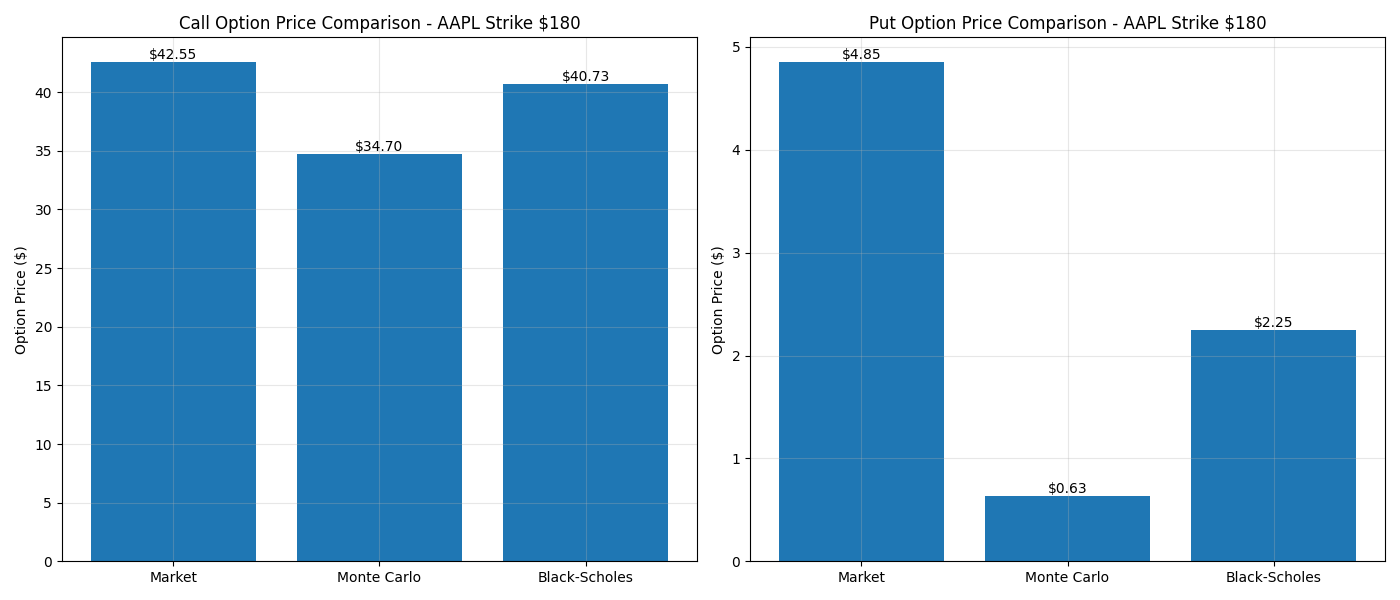
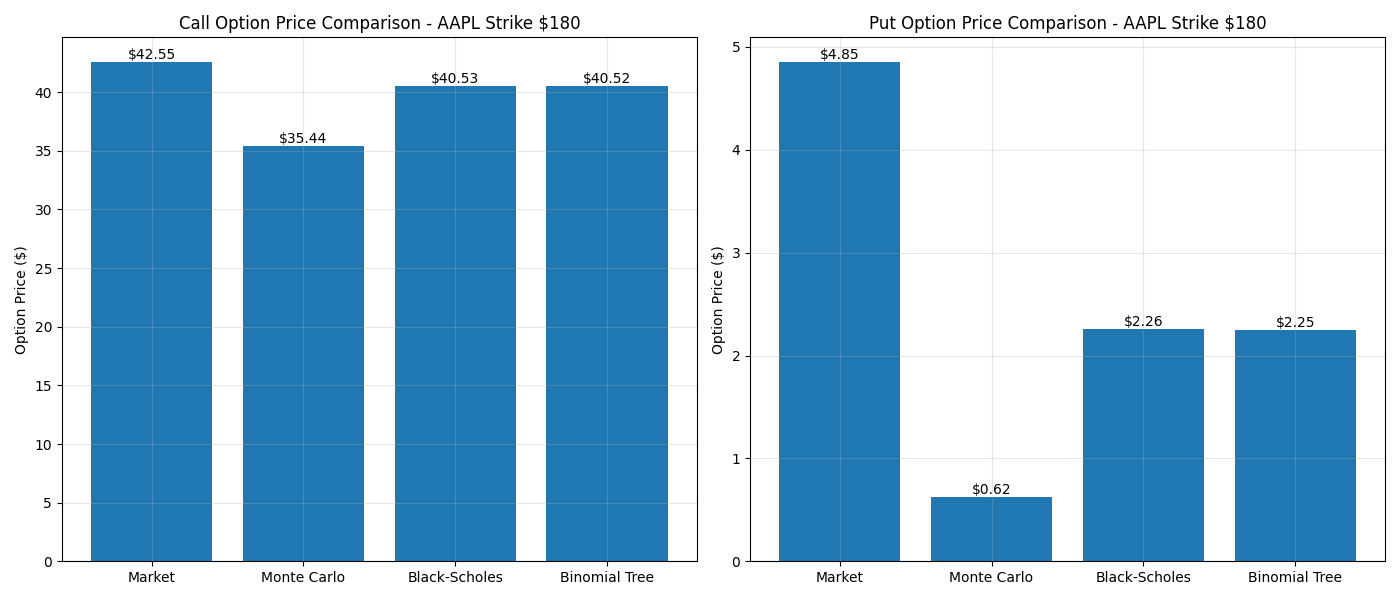
Ajout commentaire

diff --git a/services/option_pricer.py b/services/option_pricer.py
@@ -3,37 +3,43 @@ from models.monte_carlo_pricer import MonteCarloPricer
 from models.black_scholes_pricer import BlackScholesPricer
 from data.market_data import MarketData
 from models.greek_calculator import GreekCalculator
+from models.binomial_tree_pricer import BinomialTreePricer
 
 class OptionPricer:
-    def __init__(self, option, stock_data, num_simulations=10000):
+    def __init__(self, option, stock_data, num_simulations=10000, num_steps=100):
         """
         Initialise le pricer d'options.
 
         :param option: L'option à pricer (classe Option).
         :param stock_data: Les données de l'actif sous-jacent (classe StockData).
         :param num_simulations: Nombre de simulations pour la méthode Monte Carlo (par défaut 10 000).
+        :param num_steps: Nombre de pas de temps pour l'arbre binomial (par défaut 100).
         """
         self.option = option
         self.stock_data = stock_data
         self.num_simulations = num_simulations
+        self.num_steps = num_steps
         self.monte_carlo_pricer = MonteCarloPricer(option, stock_data, num_simulations)
         self.black_scholes_pricer = BlackScholesPricer(option, stock_data)
+        self.binomial_tree_pricer = BinomialTreePricer(option, stock_data, num_steps)  # Ajoutez cette ligne
         self.market_data = MarketData(option)
         self.greek_calculator = GreekCalculator(option, stock_data)
 
     def compare_prices(self):
         """
-        Compare les prix des options (call et put) calculés par Monte Carlo, Black-Scholes et le marché.
+        Compare les prix des options (call et put) calculés par Monte Carlo, Black-Scholes, l'arbre binomial et le marché.
         Affiche également les grecques.
         """
         # Calcul des prix pour les calls
         mc_call_price = self.monte_carlo_pricer.price_call()
         bs_call_price = self.black_scholes_pricer.price_call()
+        bt_call_price = self.binomial_tree_pricer.price_call()  # Ajoutez cette ligne
         market_call_price = self.market_data.get_market_price(call=True)
 
         # Calcul des prix pour les puts
         mc_put_price = self.monte_carlo_pricer.price_put()
         bs_put_price = self.black_scholes_pricer.price_put()
+        bt_put_price = self.binomial_tree_pricer.price_put()  # Ajoutez cette ligne
         market_put_price = self.market_data.get_market_price(call=False)
 
         # Calcul des grecques
@@ -53,6 +59,7 @@ class OptionPricer:
             print(f"{'Market':<15} ${market_call_price:>9.2f}")
         print(f"{'Monte Carlo':<20} {mc_call_price:>9.2f} $")
         print(f"{'Black-Scholes':<20} {bs_call_price:>9.2f} $")
+        print(f"{'Binomial Tree':<20} {bt_call_price:>9.2f} $")  # Ajoutez cette ligne
 
         # Résultats pour les puts
         print(f"\nPricing Results for Puts:")
@@ -62,6 +69,7 @@ class OptionPricer:
             print(f"{'Market':<15} ${market_put_price:>9.2f}")
         print(f"{'Monte Carlo':<20} {mc_put_price:>9.2f} $")
         print(f"{'Black-Scholes':<20} {bs_put_price:>9.2f} $")
+        print(f"{'Binomial Tree':<20} {bt_put_price:>9.2f} $")  # Ajoutez cette ligne
 
         # Affichage des grecques
         print(f"\nGreeks:")
@@ -72,29 +80,24 @@ class OptionPricer:
         print(f"{'Rho':<10} {rho:.4f}")
 
         # Visualisation des résultats
-        self.plot_price_comparison(mc_call_price, bs_call_price, market_call_price, mc_put_price, bs_put_price, market_put_price)
+        self.plot_price_comparison(mc_call_price, bs_call_price, bt_call_price, market_call_price,
+                                  mc_put_price, bs_put_price, bt_put_price, market_put_price)
 
-    def plot_price_comparison(self, mc_call_price, bs_call_price, market_call_price, mc_put_price, bs_put_price, market_put_price):
+    def plot_price_comparison(self, mc_call_price, bs_call_price, bt_call_price, market_call_price,
+                          mc_put_price, bs_put_price, bt_put_price, market_put_price):
         """
-        Affiche un graphique comparant les prix des options (call et put) calculés par Monte Carlo, Black-Scholes et le marché.
-
-        :param mc_call_price: Prix du call calculé par Monte Carlo.
-        :param bs_call_price: Prix du call calculé par Black-Scholes.
-        :param market_call_price: Prix du call sur le marché.
-        :param mc_put_price: Prix du put calculé par Monte Carlo.
-        :param bs_put_price: Prix du put calculé par Black-Scholes.
-        :param market_put_price: Prix du put sur le marché.
+        Affiche un graphique comparant les prix des options (call et put) calculés par Monte Carlo, Black-Scholes, l'arbre binomial et le marché.
         """
         # Données pour les calls
-        call_methods = ['Monte Carlo', 'Black-Scholes']
-        call_prices = [mc_call_price, bs_call_price]
+        call_methods = ['Monte Carlo', 'Black-Scholes', 'Binomial Tree']
+        call_prices = [mc_call_price, bs_call_price, bt_call_price]
         if market_call_price is not None:
             call_methods.insert(0, 'Market')
             call_prices.insert(0, market_call_price)
 
         # Données pour les puts
-        put_methods = ['Monte Carlo', 'Black-Scholes']
-        put_prices = [mc_put_price, bs_put_price]
+        put_methods = ['Monte Carlo', 'Black-Scholes', 'Binomial Tree']
+        put_prices = [mc_put_price, bs_put_price, bt_put_price]
         if market_put_price is not None:
             put_methods.insert(0, 'Market')
             put_prices.insert(0, market_put_price)
